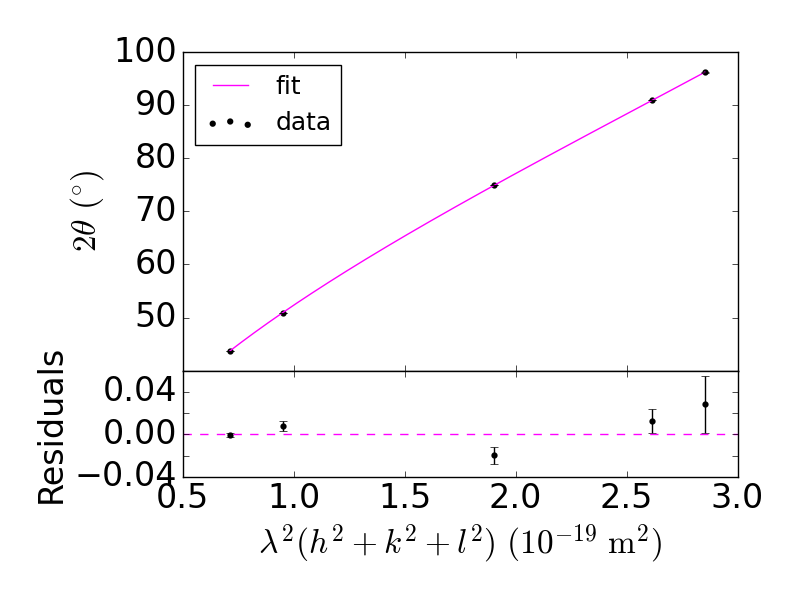
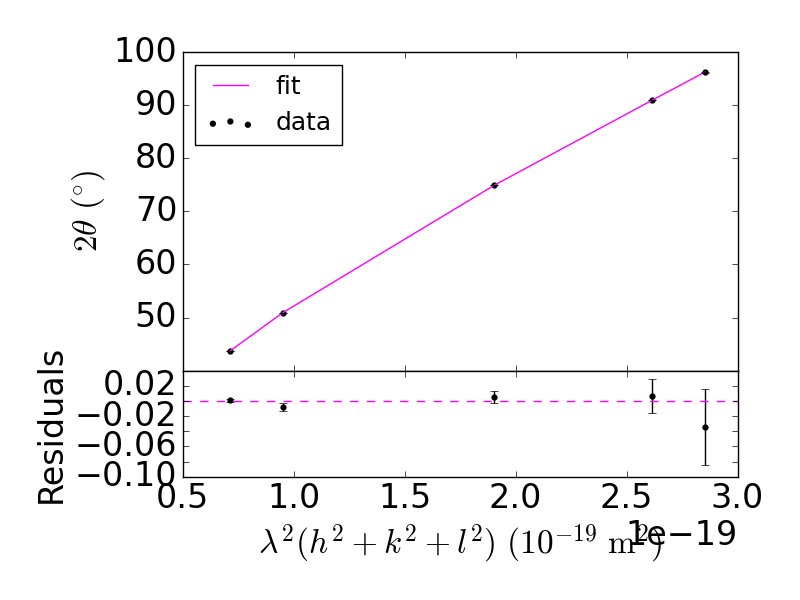
Everything is now in x_sim
There is a complete analysis function in x_sim that we can use :D

diff --git a/x_sim.py b/x_sim.py
@@ -5,6 +5,7 @@ from scipy.optimize import curve_fit
 from scipy.special import voigt_profile
 import spify
 import os
+import x as x_py
 
 
 class SmartFit:
@@ -119,20 +120,100 @@ class SmartFit:
             
         return peaks_res
 
+def full_fitter(path_, peak_pos, header, p0, mil_in = 'tin'):
+    '''
+    This method takes in a data set, and returns lattice parameters
 
-
-if __name__=="__main__":
-    d = s.data.load("X-Ray/data/lead_tin_series/Sn_08-09-20.UXD")
+    path_: the path to the UXD file
+    peak_pos: the peak positions to help the fitter (can be looked at from plot)
+    header: header for saving plots
+    p0: guess for the fit
+    mil_in: can be tin, fcc or other and decides which fitting function to use among other
+    '''
+    # Load up the data
+    d = s.data.load(path_)
     data = {"angle": d[0], "count": d[1]}
+    #Plot it
+    plt.figure()
     plt.plot(data["angle"], data["count"])
-    plt.show()
+    # plt.show()
+    plt.savefig('./figures/{}_full.png'.format(header))
+
+    # Fit all the peaks
     fit = SmartFit(data)
-    
-    # peak_pos = [30.7,31.3,32.1, 36.5, 36.3,44,45,52.5,55.4]
-    peak_pos = [30.76,32.08,43.86,45.05,55.58,62.61,63.91,64.53]
     peak_width = [2.5 for i in range(len(peak_pos))]
     fit.set_peak_pos(peak_pos, peak_width)
-    # plt.plot(data["count"])
-    # plt.show()
-    peak_data = fit.full_fit(plot = True, fname="tin_test")
-    np.savez('angles_tin.npz', angles = peak_data[0], uncertainty = peak_data[1])
+    # Recover peak position and uncertainty
+    peak_data = np.array(fit.full_fit(plot = True, fname=header))
+
+    # Function that orders the choices properly using a and c from litterature
+     
+    # mil_in could be either 'tin' or 'fcc' or others
+    miller = np.load('./miller/{}_indices.npz'.format(mil_in))['indices']
+
+    if mil_in == 'tin':
+        # For the tetragonal structure, we make the hkl and lambda independant for the fitting function
+        # We make the x array a 4-dim made of [h,k,l,lambda]
+        x_fit = [miller[:,0][:len(peak_data[0])],
+                miller[:,1][:len(peak_data[0])],
+                miller[:,2][:len(peak_data[0])],
+                np.ones(len(peak_data[0]))*0.1541838e-9]
+
+        # fit the thing
+        popt,pcov = curve_fit(x_py.tin_func, x_fit, peak_data[0], p0= p0, sigma=peak_data[1])
+        unc = np.sqrt(np.diag(pcov))
+        chi_sqd = np.sum((peak_data[0] - x_py.tin_func(x_fit, *popt))**2/peak_data[1]**2)/len(peak_data[0]-2)
+        # print(chi_sqd)
+
+        # Plot the thing
+        x_plot = 1/4*((x_fit[0]**2+x_fit[1]**2)/popt[0]**2 + x_fit[2]**2/popt[1]**2)*x_fit[3]**2
+        spify.residual_plot(x_plot, peak_data[0], peak_data[1], x_py.tin_func_2, [popt[2]], 
+                        r"$\lambda^2(h^2+k^2+l^2) \ (10^{-19} \ \mathrm{m}^2)$",
+                            r"$2\theta \ (^{\circ} )$",
+                            "Residuals", 
+                            header + "_lattice", renorm=False)
+        # Return the juice
+        print(popt, unc)
+
+    elif mil_in == 'fcc':
+        # For face centered, 1dim x array suffices in which we combine the hkl with lambda
+        x_fit = (miller[:,0][:len(peak_data[0])]**2+\
+                miller[:,1][:len(peak_data[0])]**2+\
+                miller[:,2][:len(peak_data[0])]**2)*0.1541838e-9**2
+        # Fit
+        popt,pcov = curve_fit(x_py.shape_func, x_fit, peak_data[0], p0= p0, sigma=peak_data[1])
+        unc = np.sqrt(np.diag(pcov))
+        chi_sqd = np.sum((peak_data[0] - x_py.shape_func(x_fit, *popt))**2/peak_data[1]**2)/len(peak_data[0]-2)
+        # print(chi_sqd)
+        # plot
+        spify.residual_plot(x_fit, peak_data[0], peak_data[1], x_py.shape_func, [popt[0], popt[1]], 
+                        r"$\lambda^2(h^2+k^2+l^2) \ (10^{-19} \ \mathrm{m}^2)$",
+                            r"$2\theta \ (^{\circ} )$",
+                            "Residuals", 
+                            header + "_lattice", renorm=False)
+        # Return the juice
+        print(popt, unc)
+
+if __name__=="__main__":
+    # # Doing Pure tin
+    # full_fitter("X-Ray/data/lead_tin_series/Sn_08-09-20.UXD",
+    #             [30.76,32.08,43.86,45.05,55.58,62.61,63.91,64.53],
+    #             'tin',[5.83e-10, 3.18e-10, 0] )
+
+    # # Doing Pure Lead
+    # full_fitter("X-Ray/data/lead_tin_series/Pb_08_09_20D.UXD",
+    #             [31.6,36.3,52.5,61.9,65.2,77.1,85.8,88.2,99.4,107.8],
+    #             'lead', [4.5e-10, 0], mil_in= 'fcc' )
+
+    # Doing the copper nickel alloy
+    copper_bins = [[43.3,50.6,74.5,89.5,95.3],
+                  [44,51.5,75.7,92.7,97.7],
+                  [43.8,51.3,75.7,91.5,97.0],
+                  [43.5,50.8,74.8,90.5,95.8],
+                  [44.5,52.0,76.2,92.9,98.7]]
+    for i,item in enumerate(os.listdir('./X-Ray/data/copper_nickel_series')):
+        print(item)
+        full_fitter('./X-Ray/data/copper_nickel_series/{}'.format(item),
+                    copper_bins[i],
+                    item[:-4], [3.5e-10, 0], mil_in= 'fcc' )
+    

diff --git a/miller.py b/miller.py
@@ -3,19 +3,7 @@ import spify
 import x as x_py
 from scipy.optimize import curve_fit
 
-if __name__=="__main__":
-    # Load the angles
-    data = np.load('angles_tin.npz')
-    angles = np.array(data['angles'])
-    errors = np.array(data['uncertainty'])
-    one_d2 = 4*np.sin(np.deg2rad(np.array(angles/2)))**2/1.541838e-10**2
-
-    from itertools import product
-    # create a list of all the possible hkl
-    coms = list(product(range(5), repeat=3))
-
-
-    def check_good(x):
+def check_good_tin(x):
         '''
         Checks if the combination of x (hkl) is plausible
         using rules from bilbao crystallographic server
@@ -31,7 +19,7 @@ if __name__=="__main__":
             good = True
         elif (h==k) and ((2*h+l)%4 == 0):
             good  = True 
-        elif (h==0) and ((k+l)%2==0):
+        elif (h==0) and k!=0 and ((k+l)%2==0):
             good = True 
         elif (h%2 ==0) and (k%2==0) and (l==0):
             good = True 
@@ -42,8 +30,20 @@ if __name__=="__main__":
     
         return good
 
+if __name__=="__main__":
+    # Load the angles
+    data = np.load('angles_tin.npz')
+    angles = np.array(data['angles'])
+    errors = np.array(data['uncertainty'])
+    one_d2 = 4*np.sin(np.deg2rad(np.array(angles/2)))**2/1.541838e-10**2
+
+    from itertools import product
+    # create a list of all the possible hkl
+    coms = list(product(range(5), repeat=3))
+
+
     # Refine the list using the rules for tin
-    good = list(filter(check_good, coms))
+    good = list(filter(check_good_tin, coms))
 
     # Function that orders the choices properly using a and c from litterature
     a,c = 5.83e-10, 3.18e-10
@@ -57,14 +57,8 @@ if __name__=="__main__":
     # print(good)
     # print(norm(np.array(good).T), one_d2)
     # print(good)
-
-    def norm_litt(y):
-        for element in one_d2:
-            if np.abs(norm(y)-element)<0.1e19:
-                return True 
-        return False
-
-    final_filter = np.array(list((filter(norm_litt, good))))
+    np.savez('./miller/tin_indices.npz')
+    '''
 
     x_fit = [final_filter[:,0],final_filter[:,1],final_filter[:,2],np.ones(len(angles))*0.1541838e-9]
     # print(x_fit)
@@ -80,3 +74,4 @@ if __name__=="__main__":
                         "Residuals", 
                         'tin' + "_lattice", renorm=False)
     print(popt, unc)
+    '''

diff --git a/spify.py b/spify.py
@@ -31,8 +31,8 @@ def residual_plot(x,data,noise,func,params, xlabel, ylabel1,ylabel2, filename, r
     axs[0].errorbar(x, data, yerr = noise, linestyle="", c="black")
     
     axs[0].legend(loc = legend_loc, fontsize = 18)
-    axs[1].scatter(x, y_pred-data, marker=".", s=25, c="black" , linewidth= 2)
-    axs[1].errorbar(x, y_pred-data, yerr = noise, linestyle="", c="black")
+    axs[1].scatter(x, -y_pred+data, marker=".", s=25, c="black" , linewidth= 2)
+    axs[1].errorbar(x, -y_pred+data, yerr = noise, linestyle="", c="black")
     axs[1].axhline(y=0,c="magenta", linestyle="--")
     # axs[1].set_yticklabels(labels = [-10,0,10],fontsize = 5)
     # axs[1].set_yticks([-10,0,10])
